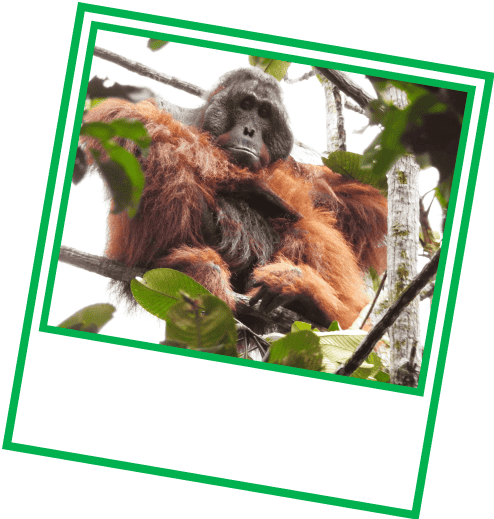
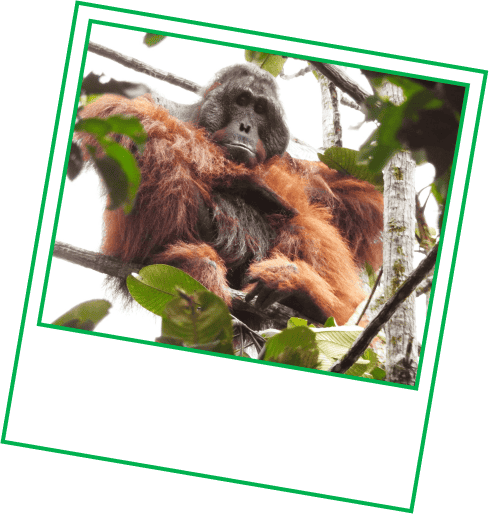
Pushed from Locofy Builder

Changed region(s): [[0.0, 0.0, 1.0, 1.0], [0.6748, 0.5603, 0.7055, 0.5914]]

diff --git a/index.css b/index.css
@@ -699,8 +699,8 @@
   height: 2.05%;
   margin: 0 !important;
   position: absolute;
-  top: 19.83%;
-  bottom: 78.12%;
+  top: 19.8%;
+  bottom: 78.14%;
   left: calc(50% - 31px);
   padding: 0 0 0 3px;
   box-sizing: border-box;
